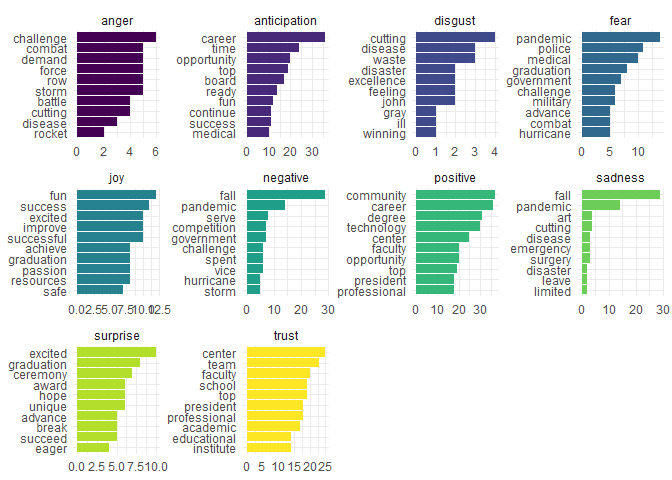
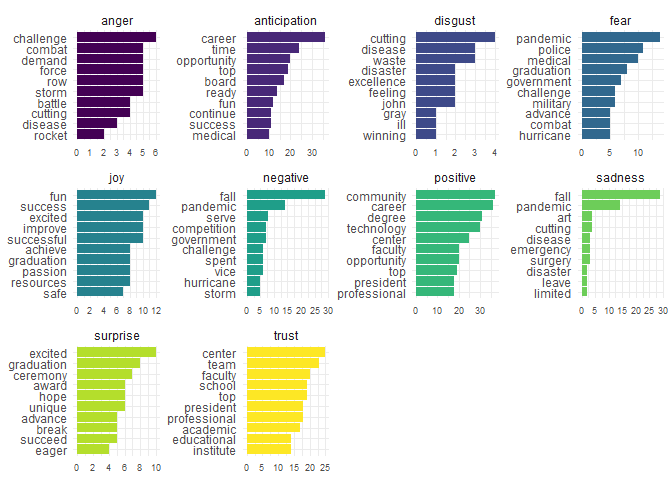
made changes to part b graph

diff --git a/project-03/lastname_project_03.html b/project-03/lastname_project_03.html
@@ -1506,6 +1506,7 @@ library(ggplot2)
 library(viridis)
 library(ggridges)
 library(tidytext)
+library(scales)
 weather_tpa &lt;- read_csv(&quot;https://raw.githubusercontent.com/reisanar/datasets/master/tpa_weather_2022.csv&quot;)
 # random sample 
 samplen&lt;-sample_n(weather_tpa, 4)</code></pre>
@@ -1673,10 +1674,13 @@ ggplot(top10_words, aes(x =fct_rev(reorder(word, -n)), y = n, fill = sentiment))
   guides(fill = FALSE) +
   labs(x = NULL, y = NULL) +
   scale_fill_viridis_d()+
-  facet_wrap(vars(sentiment),nrow=3,scales = &quot;free&quot;,) +
-  theme_minimal()+coord_flip()#+</code></pre>
[1 lines of base64/hex data omitted]
-<pre class="r"><code>  # scale_fill_manual(values=c(&quot;red3&quot;,
+  facet_wrap(vars(sentiment),nrow=3,scales = &quot;free&quot;) +
+  theme_minimal()+coord_flip()+theme(axis.text.x=element_text(size=7)) +
+scale_y_continuous(breaks= pretty_breaks())</code></pre>
[1 lines of base64/hex data omitted]
+<pre class="r"><code>                                     #,axis.text.y=element_text(size=12))
+#+
+  # scale_fill_manual(values=c(&quot;red3&quot;,
   #                            &quot;#E05D09&quot;,
   #                            &quot;green3&quot;,
   #                            &quot;gray2&quot;,

diff --git a/project-03/lastname_project_03.md b/project-03/lastname_project_03.md
@@ -24,6 +24,7 @@ library(ggplot2)
 library(viridis)
 library(ggridges)
 library(tidytext)
+library(scales)
 weather_tpa <- read_csv("https://raw.githubusercontent.com/reisanar/datasets/master/tpa_weather_2022.csv")
 # random sample 
 samplen<-sample_n(weather_tpa, 4)
@@ -266,13 +267,16 @@ ggplot(top10_words, aes(x =fct_rev(reorder(word, -n)), y = n, fill = sentiment))
   guides(fill = FALSE) +
   labs(x = NULL, y = NULL) +
   scale_fill_viridis_d()+
-  facet_wrap(vars(sentiment),nrow=3,scales = "free",) +
-  theme_minimal()+coord_flip()#+
+  facet_wrap(vars(sentiment),nrow=3,scales = "free") +
+  theme_minimal()+coord_flip()+theme(axis.text.x=element_text(size=7)) +
+scale_y_continuous(breaks= pretty_breaks())
 ```
 
 ![](lastname_project_03_files/figure-html/unnamed-chunk-13-1.png)<!-- -->
 
 ```r
+                                     #,axis.text.y=element_text(size=12))
+#+
   # scale_fill_manual(values=c("red3",
   #                            "#E05D09",
   #                            "green3",
@@ -333,7 +337,6 @@ ggplot(total_sents, aes(x =reorder(sentiment, +sum_sent), y = sum_sent, fill = s
 ```
 
 ![](lastname_project_03_files/figure-html/unnamed-chunk-14-1.png)<!-- -->
-
 
 
 
